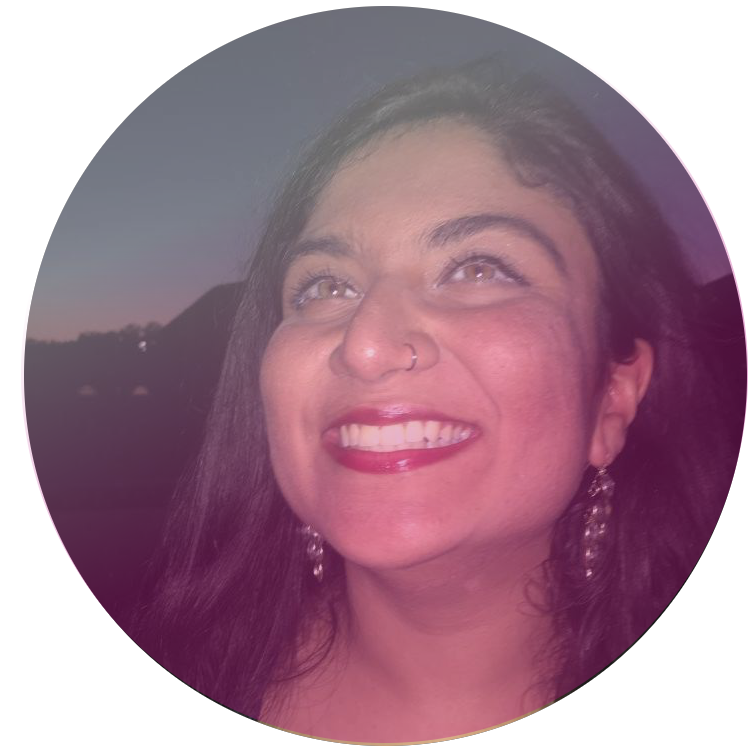
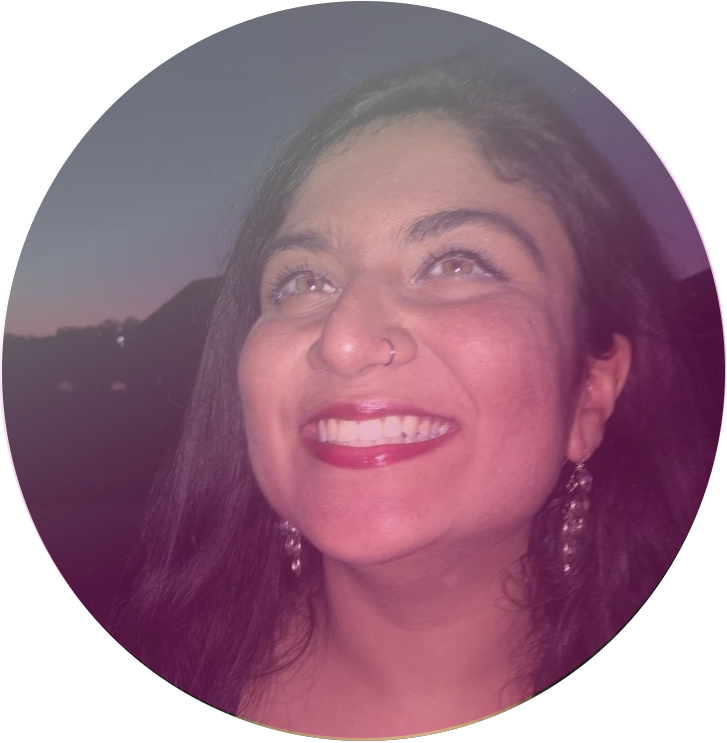
responsiveness

diff --git a/work.html b/work.html
@@ -22,7 +22,7 @@
     </header>
     <h2> things i've worked on </h2>
     <div id="article">
-      <a href="http://www.owlspark.com/reflect/" class="class3"><img src="img/atmospark.png" width="600px" alt="atmospark logo"></a>
+      <a href="http://www.atmosparktech.com/" class="class3"><img src="img/atmospark.png" alt="atmospark logo"></a>
         <h4> summer 2017 </h4>
     </div>
 
@@ -35,7 +35,7 @@
     </div>
     <div id="article">
 
-      <a href="https://www.instagram.com/kaarandcarrco/" class="class3"><img src="img/kaarandcar.png" width="600px" alt="kaar and carr co"></a>
+      <a href="https://www.instagram.com/kaarandcarrco/" class="class3"><img src="img/kaarandcar.png"  alt="kaar and carr co"></a>
         <h4> feb 2015 - aug 2016 </h4>
 
 
@@ -43,13 +43,13 @@
 
     <div id="article">
 
-      <a href="https://twitter.com/poccoproductive" class="class3"><img src="img/pocco.png" width="600px" alt="Cubester LLC"></a>
+      <a href="https://twitter.com/poccoproductive" class="class3"><img src="img/pocco.png"  alt="Cubester LLC"></a>
         <h4> summer 2015 </h4>
     </div>
 
     <div id="article">
 
-      <a href="https://www.kumon.com/" class="class3"><img src="img/kumon.png" width="600px" alt="kumon"></a>
+      <a href="https://www.kumon.com/" class="class3"><img src="img/kumon.png"  alt="kumon"></a>
         <h4> sept 2014 - nov 2015 </h4>
     </div>
 

diff --git a/mycss.css b/mycss.css
@@ -16,6 +16,7 @@ header {
     margin: auto;
     background: #FFF;
     min-height: 100vh;
+    overflow: hidden;
 
 }
 .footer {
@@ -81,9 +82,18 @@ h4 {
   font-style: italic;
   color: #ccc;
 }
+
+img{
+  width: 75%
+
+}
 img.leftimage {
-  margin: 10px 10px;
+  padding: 0px 20px 0px 0px;
   border-radius: 20px;
+  width: 300px;
+  height: 300px;
+  float: left;
+
 
 }
 img.contact {
@@ -109,7 +119,7 @@ li {
 }
 
 
-@media (max-width: 500px) {
+@media screen and (max-width: 500px) {
   h1 {
     font-size: 36px;
     padding: 5px;
@@ -118,4 +128,9 @@ li {
     padding: 5px;
     display: block;
   }
+  img.leftimage {
+    padding: 0px;
+    border-radius: 20px;
+    width: auto;
+    float: none;
 }

diff --git a/listen.html b/listen.html
@@ -20,7 +20,7 @@
 
     <div id="article">
       <h2>what i'm listening to.</h2>
-      <img src="img/jamila.jpg" width="600" height="400">
+      <img src="img/jamila.jpg">
       <p>you might know that i'm a dj for <a href="http://ktru.org/" class="class3">ktru rice radio</a>.</p>
       <p>the most recent podcast i've finished is <a href="https://stownpodcast.org/" class="class3">s-town</a>.</p>
       <p>my most recent playlist is </p>

diff --git a/index.html b/index.html
@@ -19,7 +19,7 @@
 
     <div id="article">
 
-        <img src="img/looking-up.png" width="300" height="300" alt="photo of me" class="leftimage" align="left">
+        <img src="img/looking-up.png" alt="photo of me" class="leftimage">
 
 
 
